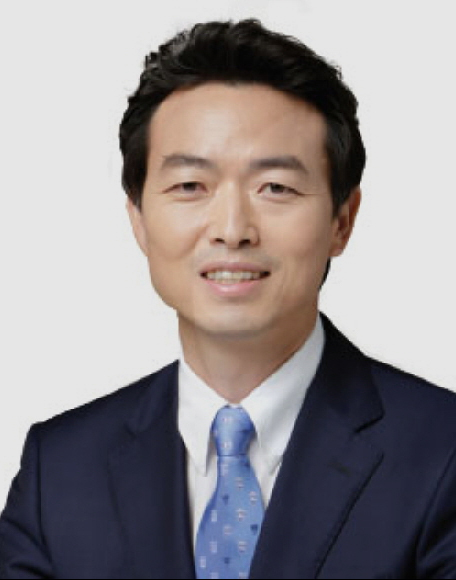
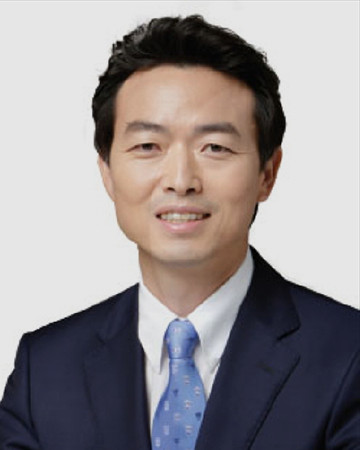
edit

diff --git a/home/resource/css/component.css b/home/resource/css/component.css
@@ -34,6 +34,7 @@ body { font-family:'Roboto', 'NotoSans', 'Dotum', 'sans-serif'; font-weight:500;
 .btn-base.primary:before { opacity:0; }
 .btn-base.primary:hover { background:linear-gradient(-135deg, #0072bc 0%, #00b49d 100%); }
 .btn-base .ico-arr { margin:-4px 0 0 5px; }
+.btn-base .ico-download { margin:-4px 0 0 4px; }
 
 .btn-menu { position:relative; display:inline-block; width:30px; height:30px; }
 .btn-menu:before,
@@ -60,7 +61,8 @@ ul.bul-dot > li { color:#454545; margin-top:8px; padding-left:16px; font-size:18
 
 /* icon */
 [class*="ico-"] { display:inline-block; vertical-align:middle; }
-.ico-arr { width:40px; height:10px; background:url('/gcart/home/resource/img/ico_arrow_r.png') right 0/40px auto no-repeat; }
+.ico-arr { width:40px; height:10px; background:url('../img/ico_arrow_r.png') right 0/40px auto no-repeat; }
+.ico-download { width:18px; height:18px; background:url('../img/ico_download.png') right 0/18px auto no-repeat; }
 .ico-arr.light { background-position-y:-10px; }
 
 .txt-dot { margin:0 -0.3em; }
@@ -128,12 +130,15 @@ ul.bul-dot > li { color:#454545; margin-top:8px; padding-left:16px; font-size:18
 .visual-area .tit-area { margin-top:120px; }
 .visual-area.main { height:900px; }
 .visual-area.main:after { display:none; }
-.visual-area.main .tit-area { position:absolute; top:360px; left:0; width:100%; pointer-events:none; margin:0; }
+.visual-area.main .tit-area { z-index:1; position:relative; top:360px; left:0; width:100%; margin:0; }
 .visual-area .visual-inner { z-index:2; position:relative; height:100%; padding:100px 20px 0; margin:0 auto; }
-.slider-visual { z-index:-1; position:absolute; top:0; left:0; width:100%; height:100%; }
-.slider-visual * { height:100%; }
-.slider-visual .slide { background-size:cover; background-position:center center; }
-.slider-visual .slide:after { z-index:1; position:absolute; display:block; top:0; left:0; right:0; bottom:0; background:linear-gradient(to top, rgba(0,0,0,.2) 0%, rgba(0,0,0,.05) 30%, rgba(0,0,0,.2) 100%); content:""; }
+.slider-visual { position:absolute; top:0; left:0; width:100%; height:100%; }
+.slider-visual .slider-inner,
+.slider-visual .slick-list,
+.slider-visual .slick-track,
+.slider-visual .slick-slide { height:100%; }
+.slider-visual .slide { position:relative; background-size:cover; background-position:center center; }
+.slider-visual .slide:after { z-index:0; position:absolute; display:block; top:0; left:0; right:0; bottom:0; background:linear-gradient(to top, rgba(0,0,0,.2) 0%, rgba(0,0,0,.05) 30%, rgba(0,0,0,.2) 100%); content:""; }
 .slider-pagination.type-num { position:absolute; left:0; bottom:60px; width:100%; text-align:right; padding-right:20px; }
 .slider-pagination.type-num li { display:inline-block; margin:0 5px; }
 .slider-pagination.type-num a { background:none; width:auto; height:auto; font-size:20px; font-weight:300; }
@@ -155,7 +160,7 @@ ul.bul-dot > li { color:#454545; margin-top:8px; padding-left:16px; font-size:18
 .bbs-list .date { width:11%; white-space:nowrap; color:#898989; font-size:15px; font-weight:400; text-align:right; }
 
 /* main : business  */
-.cont-area.business { background:url('/gcart/home/resource/img/bg_business.jpg') center center/cover no-repeat; }
+.cont-area.business { background:url('../img/bg_business.jpg') center center/cover no-repeat; }
 .link-list { }
 .link-list:after { display:block; clear:both; content:""; }
 .link-list .link-visual { float:left; width:23.5%; margin-left:2%; }
@@ -175,7 +180,7 @@ ul.bul-dot > li { color:#454545; margin-top:8px; padding-left:16px; font-size:18
 .intro-list:after { display:block; clear:both; content:""; }
 .intro-list > li { float:left; width:33%; text-align:center; border-left:1px solid #d8d8d8; }
 .intro-list > li:first-child { border-left:0; }
-.intro-list > li:before { display:block; width:105px; height:105px; margin:0 auto 25px; background:url('/gcart/home/resource/img/sp_ico_intro.jpg') 0 0/105px auto no-repeat; content:""; }
+.intro-list > li:before { display:block; width:105px; height:105px; margin:0 auto 25px; background:url('../img/sp_ico_intro.jpg') 0 0/105px auto no-repeat; content:""; }
 .intro-list > li.organization:before { background-position-y:-105px; }
 .intro-list > li.map:before { background-position-y:-210px; }
 .intro-list .tit { font-size:32px; color:#000; display:block; }
@@ -214,12 +219,13 @@ ul.bul-dot > li { color:#454545; margin-top:8px; padding-left:16px; font-size:18
 /* intro
 ====================== */
 .greeting-area { position:relative; padding-right:470px;  }
-.greeting-area .greeting-img { position:absolute; top:-70px; right:0; }
+.greeting-area .greeting-img { position:absolute; top:-70px; right:0; width:360px; }
+.greeting-area .greeting-img img { width:100%; height:auto; }
 .greeting-area .tit-d4 { margin-bottom:30px; }
 .greeting-inner { min-height:450px; font-size:21px; font-weight:400; }
 .greeting-inner p { line-height:1.7em; }
 .greeting-inner p + p { margin-top:10px; }
-.txt-sign { display:block; margin-top:30px; font-size:16px; color:#565656; }
+.txt-sign { display:block; margin-top:22px; font-size:16px; color:#565656; text-align:center; font-weight:400; }
 
 .vision-area { display:table; width:100%; }
 .vision-area > div { display:table-row; }
@@ -256,11 +262,12 @@ ul.bul-dot > li { color:#454545; margin-top:8px; padding-left:16px; font-size:18
 ====================== */
 .map-area { position:relative; margin:50px 0 35px; width:100%; height:600px; }
 .map-desc { font-size:21px; font-weight:400; color:#212121; }
+.map-desc .btn-base { margin-left:10px; }
 .map-info { border-top:1px solid #cdcdcd; margin-top:30px; color:#212121; font-weight:400; }
 .map-info > li { position:relative; border-top:1px solid #e7e7e7; padding:30px 60px 30px 175px; font-size:18px; color:#454545; }
 .map-info > li:first-child { border-top:0; }
 .map-info > li:last-child { padding-bottom:0; }
-.map-info > li:before { position:absolute; top:30px; left:60px; display:block; width:80px; height:80px; background:0 0/80px auto url('/gcart/home/resource/img/sp_ico_map.jpg') no-repeat; content:""; }
+.map-info > li:before { position:absolute; top:30px; left:60px; display:block; width:80px; height:80px; background:0 0/80px auto url('../img/sp_ico_map.jpg') no-repeat; content:""; }
 .map-info > li.bus:before { background-position-y:-80px; }
 .map-info > li strong { display:block; margin-bottom:15px; font-size:21px; }
 

diff --git a/home/main/index.html b/home/main/index.html
@@ -31,17 +31,19 @@
 					<!-- [Start] slider -->
 					<div class="slider-area slider-visual">
 						<div class="slider-inner">
-							<div class="slide" style="background-image:url('/gcart/home/resource/img/visual_main1.jpg');"></div>
-							<div class="slide" style="background-image:url('/gcart/home/resource/img/visual_main2.jpg');"></div>
+							<div class="slide" style="background-image:url('/gcart/home/resource/img/visual_main1.jpg');">
+								<div class="tit-area">
+									<strong class="tit-sub">Culture & Arts</strong>
+									<h2 class="tit-d1">날마다 문화<span class="txt-dot">&dot;</span>예술</h2>
+									<p class="desc-d1">과천시민의 일상을 문화예술로 채워드립니다.</p>
+								</div>
+							</div>
+							<div class="slide" style="background-image:url('/gcart/home/resource/img/visual_main2.jpg');">
+							</div>
 						</div>
 					</div>
 					<div class="slider-pagination type-num"></div>
 					<!-- // [End] slider -->
-					<div class="tit-area">
-						<strong class="tit-sub">Culture & Arts</strong>
-						<h2 class="tit-d1">날마다 문화<span class="txt-dot">&dot;</span>예술</h2>
-						<p class="desc-d1">과천시민의 일상을 문화예술로 채워드립니다.</p>
-					</div>
 
 				</div>
 			</div>
@@ -50,7 +52,6 @@
 				<div class="cont-grid">
 					<div class="tit-area">
 						<h3 class="tit-d2">공지사항</h3>
-						<p class="desc-d2">과천문화재단의 새소식과 다양한 모습을 만나보세요.</p>
 					</div>
 					<div class="cont-inner">
 						<ul class="bbs-list">
@@ -103,7 +104,6 @@
 				<div class="cont-grid">
 					<div class="tit-area">
 						<h3 class="tit-d2">주요사업</h3>
-						<p class="desc-d2">과천문화재단에서 진행하고 있는 주요 사업을 소개합니다.</p>
 					</div>
 					<div class="cont-inner">
 						<div class="link-list">
@@ -144,7 +144,6 @@
 				<div class="cont-grid">
 					<div class="tit-area">
 						<h3 class="tit-d2">재단소개</h3>
-						<p class="desc-d2">과천문화재단의 새소식과  다양한 모습을 만나보세요.</p>
 					</div>
 					<div class="cont-inner">
 						<ul class="intro-list">

diff --git a/home/resource/css/base.css b/home/resource/css/base.css
@@ -5,7 +5,7 @@
  *	(based on Eric Meyer's Reset css v2.0 : http://meyerweb.com/eric/tools/css/reset/)
 */
 
-html, body, div, span, applet, object, iframe, h1, h2, h3, h4, h5, h6, p, blockquote, pre, a, abbr, acronym, address, big, cite, code, del, dfn, em, img, ins, kbd, q, s, samp, small, strike, strong, sub, sup, tt, var, b, u, i, center, dl, dt, dd, ol, ul, li, fieldset, form, label, legend, table, caption, tbody, tfoot, thead, tr, th, td, article, aside, canvas, details, embed,  figure, figcaption, footer, header, hgroup,  menu, nav, output, ruby, section, summary, time, mark, audio, video { margin:0; padding:0; border:0; font:inherit; vertical-align:baseline; color:inherit; box-sizing:border-box; line-height:1.4em; text-decoration:inherit; }
+html, body, div, span, applet, object, iframe, h1, h2, h3, h4, h5, h6, p, blockquote, pre, a, abbr, acronym, address, big, cite, code, del, dfn, em, img, ins, kbd, q, s, samp, small, strike, strong, sub, sup, tt, var, b, u, i, center, dl, dt, dd, ol, ul, li, fieldset, form, label, legend, table, caption, tbody, tfoot, thead, tr, th, td, article, aside, canvas, details, embed,  figure, figcaption, footer, header, hgroup,  menu, nav, output, ruby, section, summary, time, mark, audio, video, button { margin:0; padding:0; border:0; font:inherit; vertical-align:baseline; color:inherit; box-sizing:border-box; line-height:1.4em; text-decoration:inherit; }
 /* HTML5 display-role reset for older browsers */
 article, aside, details, figcaption, figure, footer, header, hgroup, menu, nav, section { display:block; }
 html, body { width:100%; height:100%; }
@@ -16,5 +16,5 @@ blockquote, q { quotes:none; }
 blockquote:before, blockquote:after, q:before, q:after { content:''; content:none; }
 table { border-collapse:collapse; border-spacing:0; table-layout:fixed; }
 img, button, a { vertical-align:middle; }
-button { background:none; border:none; }
+button { background:none; border:none; cursor:pointer; }
 caption { opacity:0; position:absolute; display:block; width:1px; height:1px; overflow:hidden; color:transparent; }

diff --git a/home/resource/css/component_resp.css b/home/resource/css/component_resp.css
@@ -35,7 +35,7 @@
 	.tag-new { font-size:12px; }
 
 	/* header */
-	.header-area { height:70px; }
+	.header-area { height:70px; overflow:visible; }
 	.header-area:after { top:68px; }
 	.header-area .gnb-area { float:none; position:fixed; padding:70px 0 0; margin:0; top:0; left:-100%; background:#fff; width:100%; height:100%; transition:all ease-in-out .35s; }
 	.header-area.open .gnb-area { left:0; }
@@ -87,7 +87,7 @@
 	.visual-area .visual-inner { position:absolute; top:0; left:0; width:100%; padding-top:70px; }
 	.visual-area .tit-area { margin-top:calc(20vh - 35px); transform:translateY(-50%); }
 	.visual-area.main { height:0; padding-top:55vh; }
-	.visual-area.main .tit-area { top:50%; transform:translateY(-50%); }
+	.visual-area.main .tit-area { padding:0 30px; top:50%; transform:translateY(-50%); }
 
 	.slider-pagination.type-num { bottom:5%; }
 	.slider-pagination.type-num a { font-size:16px; }
@@ -125,9 +125,8 @@
 	.organization-area .item strong { font-size:18px; height:40px; line-height:40px; min-width:150px; padding:0 10px; }
 
 	/* page : intro */
-	.greeting-area { padding-right:53%; }
-	.greeting-area .greeting-img { top:-10%; width:50%; max-width:456px; }
-	.greeting-area .greeting-img img { width:100%; height:auto; }
+	.greeting-area { padding-right:340px; }
+	.greeting-area .greeting-img { top:-10%; width:300px; }
 	.greeting-inner { font-size:18px; }
 	.greeting-area .tit-d4 { margin-bottom:10px; }
 
@@ -159,8 +158,9 @@
 	.article .btn-area.upper.col2 { position:static; margin-top:25px; text-align:center; }
 
 	.greeting-area { padding:0; }
-	.greeting-area .greeting-img { position:static; width:100%; text-align:left; height:290px; margin-bottom:25px; }
-	.greeting-area .greeting-img img { height:100%; width:auto; }
+	.greeting-area .greeting-img { position:static; width:100%; text-align:left; margin-bottom:25px; }
+	.greeting-area .greeting-img img { max-height:290px; width:auto; }
+	.txt-sign { text-align:left; }
 	.greeting-inner { min-height:0; }
 
 	.vision-area > div { display:block; margin-top:40px; }

diff --git a/home/business/concert.html b/home/business/concert.html
@@ -43,7 +43,7 @@
 						</div>
 						<div class="img-area" style="background-image:url('/gcart/home/resource/img/@temp/@img_concert1.jpg');"></div>
 						<div class="btn-area upper">
-							<a href="#" class="btn-base primary"><span>예매 바로가기<i class="ico-arr light"></i></span></a>
+							<a href="#" class="btn-base primary"><span>예매하기<i class="ico-arr light"></i></span></a>
 						</div>
 					</div>
 					<div class="article">
@@ -53,7 +53,7 @@
 						</div>
 						<div class="img-area" style="background-image:url('/gcart/home/resource/img/@temp/@img_concert2.jpg');"></div>
 						<div class="btn-area upper">
-							<a href="#" class="btn-base primary"><span>예매 바로가기<i class="ico-arr light"></i></span></a>
+							<a href="#" class="btn-base primary"><span>예매하기<i class="ico-arr light"></i></span></a>
 						</div>
 					</div>
 					<div class="article">
@@ -63,7 +63,7 @@
 						</div>
 						<div class="img-area" style="background-image:url('/gcart/home/resource/img/@temp/@img_concert3.jpg');"></div>
 						<div class="btn-area upper">
-							<a href="#" class="btn-base primary"><span>예매 바로가기<i class="ico-arr light"></i></span></a>
+							<a href="#" class="btn-base primary"><span>예매하기<i class="ico-arr light"></i></span></a>
 						</div>
 					</div>
 					<div class="article">
@@ -73,7 +73,7 @@
 						</div>
 						<div class="img-area" style="background-image:url('/gcart/home/resource/img/@temp/@img_concert4.jpg');"></div>
 						<div class="btn-area upper">
-							<a href="#" class="btn-base primary"><span>예매 바로가기<i class="ico-arr light"></i></span></a>
+							<a href="#" class="btn-base primary"><span>예매하기<i class="ico-arr light"></i></span></a>
 						</div>
 					</div>
 				</div>

diff --git a/home/intro/purpose.html b/home/intro/purpose.html
@@ -41,7 +41,10 @@
 							<h3 class="tit-d3">이사장 인사말</h3>
 						</div>
 						<div class="greeting-area">
-							<div class="greeting-img"><img src="/gcart/home/resource/img/img_chairman.jpg" alt=""></div>
+							<div class="greeting-img">
+								<img src="/gcart/home/resource/img/img_chairman.jpg" alt="">
+								<span class="txt-sign">과천문화재단 이사장  김 종 천</span>
+							</div>
 							<!-- [20201224] 인사말 수급 -->
 							<article class="greeting-inner">
 								<strong class="tit-d4 fc-primary">날마다 문화예술! <br class="br">과천 시민의 일상을 문화・예술로 채워드리겠습니다.</strong>
@@ -50,7 +53,6 @@
 								<p>과천문화재단은 우리 시를 문화적으로 풍요롭게 하고 <br class="br">예술을 통해 과천시민의 삶의 질을 높이고자 설립되었습니다.</p>
 								<p>‘시민이 주인이 되는 문화도시, 함께 만드는 문화’라는 비전 아래 <br class="br">시민과 함께 과천시의 문화・예술을 만들어 나가겠습니다.</p>
 								<p>시민 누구나 일상에서 문화와 예술을 향유하고, 이를 통해 과천시민으로서 <br class="br">행복을 느낄 수 있도록 과천문화재단이 최선을 다할 것을 약속드립니다.<br><br>감사합니다.</p>
-								<span class="txt-sign">과천문화재단 이사장  김 종 천</span>
 							</article>
 							<!-- // [20201224] 인사말 수급 -->
 						</div>

diff --git a/home/intro/map.html b/home/intro/map.html
@@ -39,7 +39,20 @@
 					<div class="article bdb">
 						<script type="text/javascript" src="//dapi.kakao.com/v2/maps/sdk.js?appkey=4871be889d5272d1e6d0f2c6a44fa5dd"></script> <!-- [D] 도메인이 127.0.0.1:5500 또는 gcart.or.kr 일 경우만 API가 실행됩니다. -->
 						<div id="map" class="map-area"></div>
-						<div class="map-desc">주소 : 경기도 과천시 통영로 5 과천시민회관 2층 </div>
+						<div class="map-desc">
+							주소 : <span id="addressID">경기도 과천시 통영로 5 과천시민회관 2층 </span>
+							<button type="button" class="btn-base primary" onclick="
+								var t = document.createElement('textarea');
+								document.body.appendChild(t);
+								t.style.opacity = '0';
+								t.style.position = 'absolute';
+								t.value = document.querySelector('#addressID').innerText;
+								t.select();
+								document.execCommand('copy');
+								document.body.removeChild(t);
+								alert('클립보드에 복사되었습니다.'); 
+								"><span>지번 복사</span></button>
+						</div>
 						<ul class="map-info">
 							<li class="subway">
 								<strong>지하철 이용 시 - 4호선 정부과천청사역 하차</strong>
@@ -56,9 +69,6 @@
 								</ul>
 							</li>
 						</ul>
-					</div>
-					<div class="btn-area tac">
-						<a href="./notice.html" class="btn-base primary"><span>목록가기<i class="ico-arr light"></i></span></a>
 					</div>
 				</div>
 			</div>

diff --git a/home/business/theater.html b/home/business/theater.html
@@ -43,8 +43,8 @@
 						</div>
 						<div class="img-area" style="background-image:url('/gcart/home/resource/img/@temp/@img_theater1.jpg');"></div>
 						<div class="btn-area upper col2">
-							<a href="#" class="btn-base"><span>공간 자료 다운<i class="ico-arr"></i></span></a>
-							<a href="#" class="btn-base primary"><span>대관 신청하기<i class="ico-arr light"></i></span></a>
+							<a href="#" class="btn-base"><span>자료 다운로드<i class="ico-download"></i></span></a>
+							<a href="#" class="btn-base primary"><span>대관신청<i class="ico-arr light"></i></span></a>
 						</div>
 					</div>
 					<div class="article">
@@ -54,8 +54,8 @@
 						</div>
 						<div class="img-area" style="background-image:url('/gcart/home/resource/img/@temp/@img_theater2.jpg');"></div>
 						<div class="btn-area upper col2">
-							<a href="#" class="btn-base"><span>공간 자료 다운<i class="ico-arr"></i></span></a>
-							<a href="#" class="btn-base primary"><span>대관 신청하기<i class="ico-arr light"></i></span></a>
+							<a href="#" class="btn-base"><span>자료 다운로드<i class="ico-download"></i></span></a>
+							<a href="#" class="btn-base primary"><span>대관신청<i class="ico-arr light"></i></span></a>
 						</div>
 					</div>
 				</div>

diff --git a/home/business/education.html b/home/business/education.html
@@ -29,7 +29,7 @@
 			<div class="visual-area" style="background-image:url('/gcart/home/resource/img/visual_education.jpg');">
 				<div class="visual-inner">
 					<div class="tit-area">
-						<h2 class="tit-d1">예술<span class="txt-dot">&dot;</span>교육</h2>
+						<h2 class="tit-d1">예술교육</h2>
 					</div>
 				</div>
 			</div>
@@ -42,6 +42,9 @@
 							<p class="desc-d2">아시아 문학중심을 꿈꾸는 과천문화재단 극장 대관안내</p>
 						</div>
 						<div class="img-area" style="background-image:url('/gcart/home/resource/img/@temp/@img_education1.jpg');"></div>
+						<div class="btn-area upper">
+							<a href="#" class="btn-base primary"><span>신청하기<i class="ico-arr light"></i></span></a>
+						</div>
 					</div>
 					<div class="article">
 						<div class="tit-area pdr-s">
@@ -49,6 +52,9 @@
 							<p class="desc-d2">예술아카데미</p>
 						</div>
 						<div class="img-area" style="background-image:url('/gcart/home/resource/img/@temp/@img_education2.jpg');"></div>
+						<div class="btn-area upper">
+							<a href="#" class="btn-base primary"><span>신청하기<i class="ico-arr light"></i></span></a>
+						</div>
 					</div>
 				</div>
 			</div>

diff --git a/home/business/culture.html b/home/business/culture.html
@@ -29,7 +29,7 @@
 			<div class="visual-area" style="background-image:url('/gcart/home/resource/img/visual_culture.jpg');">
 				<div class="visual-inner">
 					<div class="tit-area">
-						<h2 class="tit-d1">지역<span class="txt-dot">&dot;</span>문화</h2>
+						<h2 class="tit-d1">지역문화</h2>
 					</div>
 				</div>
 			</div>
@@ -44,7 +44,7 @@
 						<div class="img-area" style="background-image:url('/gcart/home/resource/img/@temp/@img_cultrue1.jpg');"></div>
 						<!-- [S] btn-area -->
 						<div class="btn-area upper">
-							<a href="#" class="btn-base primary"><span>축제 보러가기<i class="ico-arr light"></i></span></a>
+							<a href="#" class="btn-base primary"><span>자세히 보기<i class="ico-arr light"></i></span></a>
 						</div>
 						<!-- // [E] btn-area -->
 					</div>

diff --git a/home/include/header.html b/home/include/header.html
@@ -24,8 +24,8 @@
 				<ul class="nav-d2">
 					<li><a href="/gcart/home/business/concert.html">공연&dot;전시</a></li>
 					<li><a href="/gcart/home/business/theater.html">극장안내&dot;대관</a></li>
-					<li><a href="/gcart/home/business/education.html">예술&dot;교육</a></li>
-					<li><a href="/gcart/home/business/culture.html">지역&dot;문화</a></li>
+					<li><a href="/gcart/home/business/education.html">예술교육</a></li>
+					<li><a href="/gcart/home/business/culture.html">지역문화</a></li>
 				</ul>
 			</li>
 			<li>
